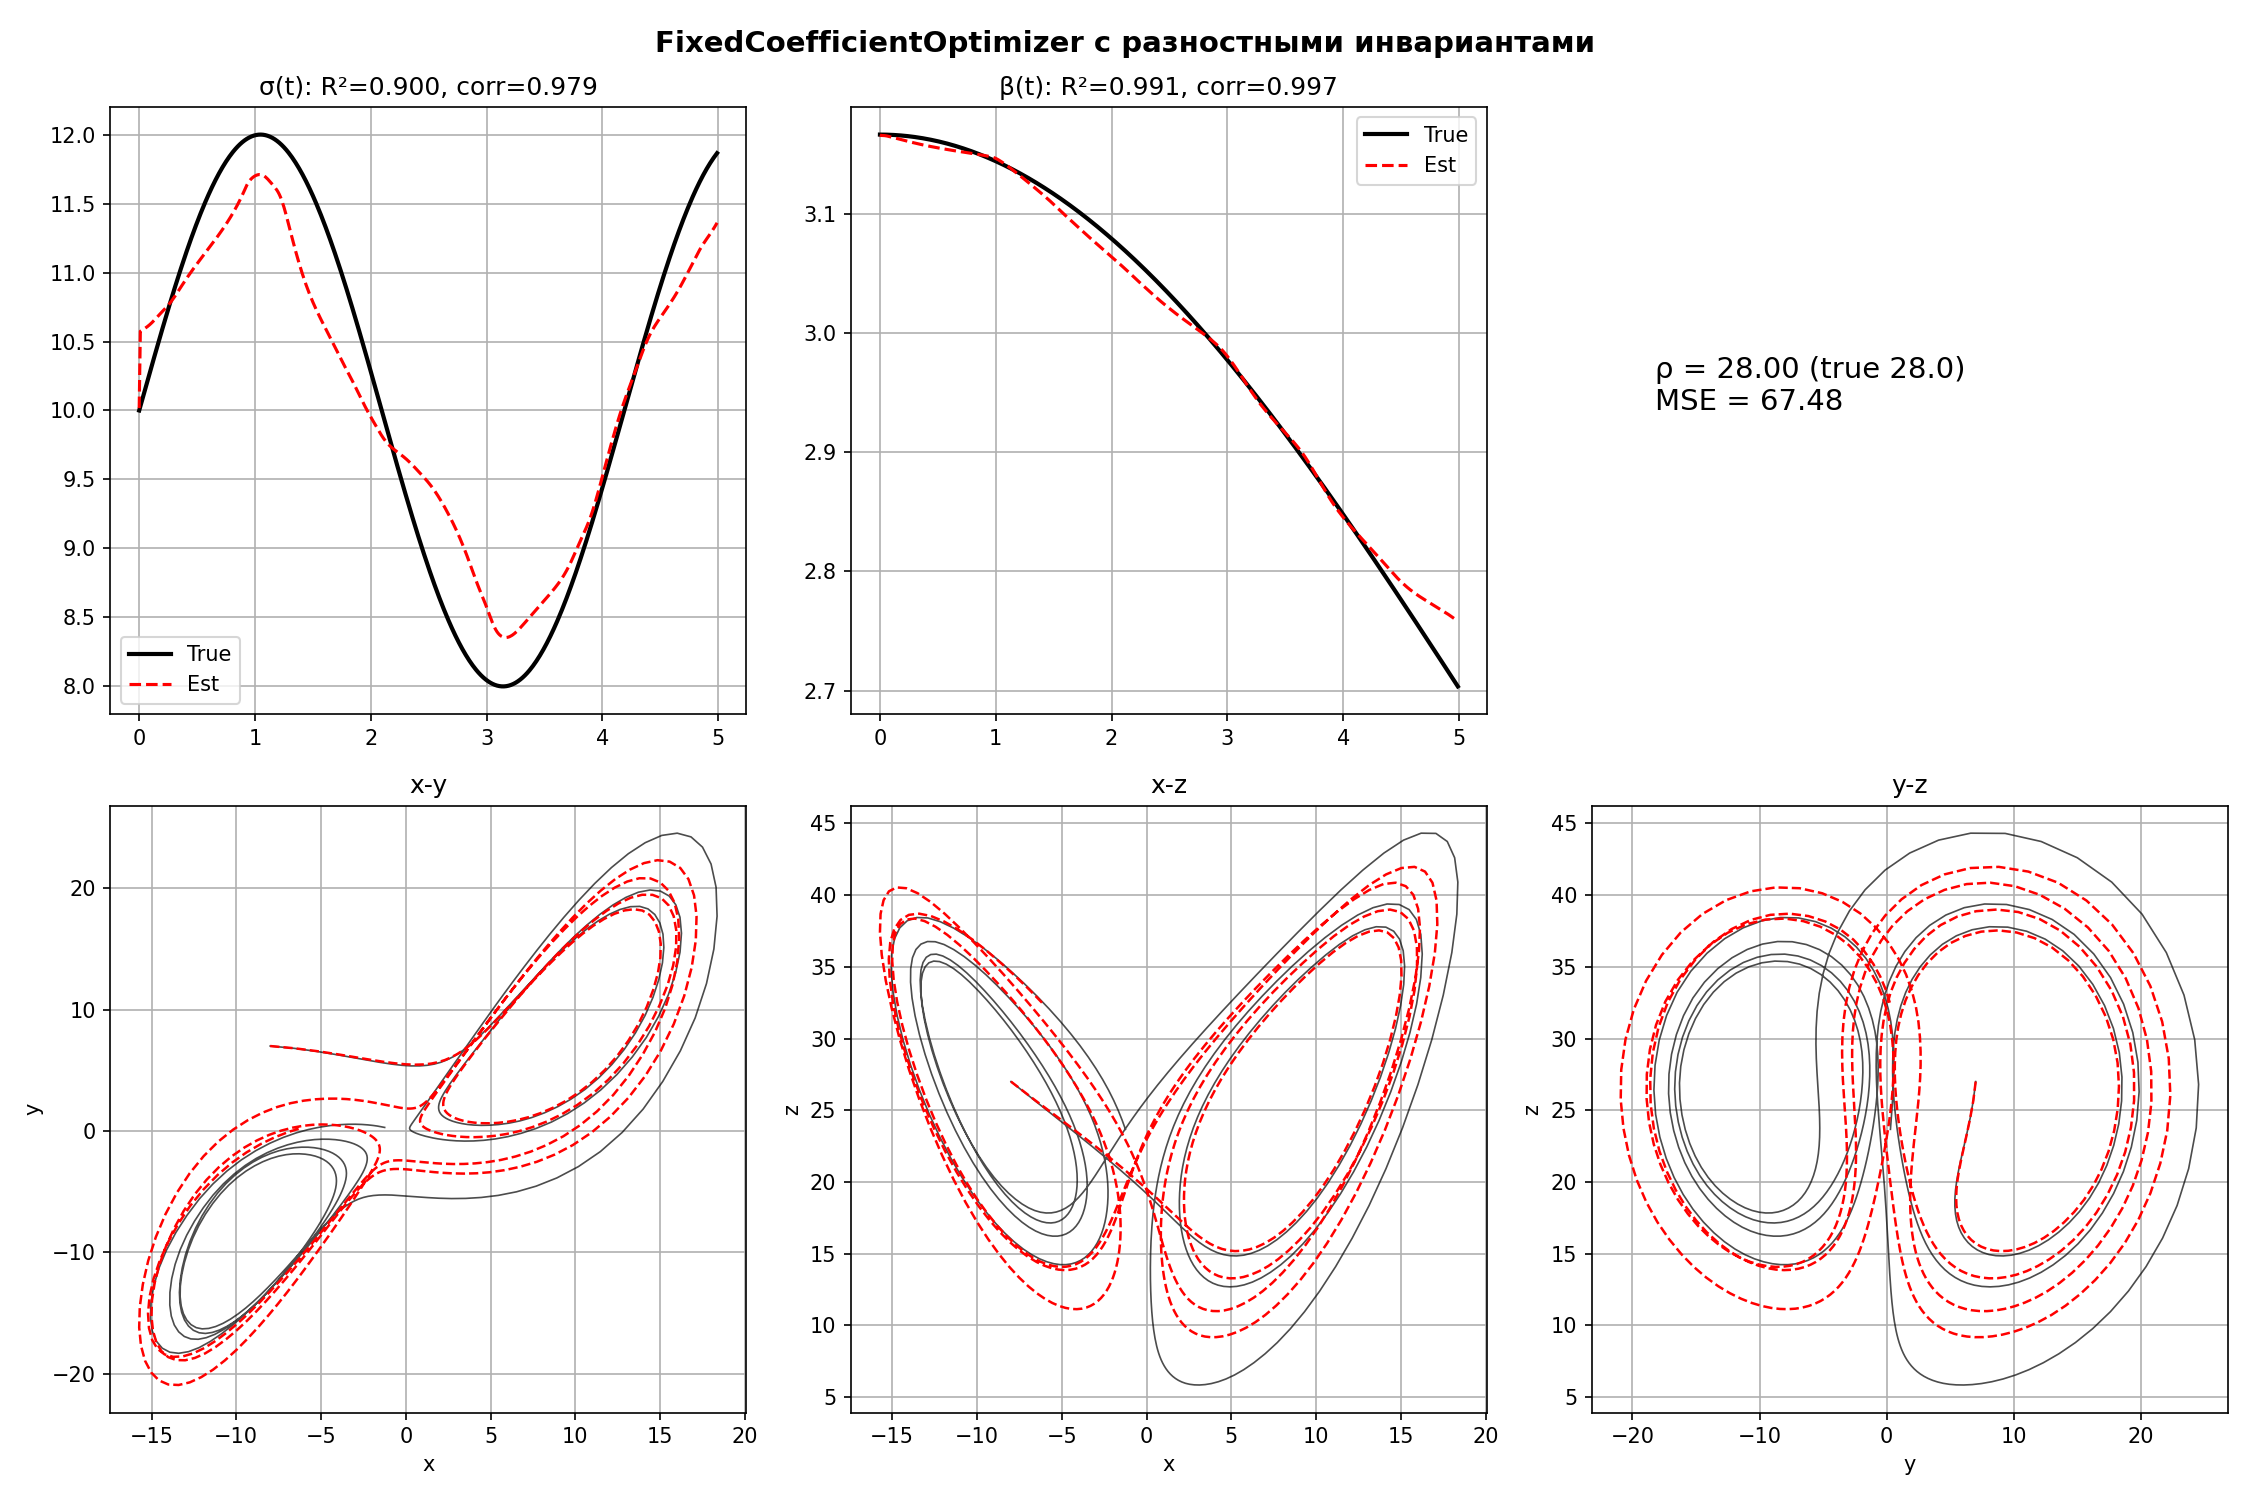
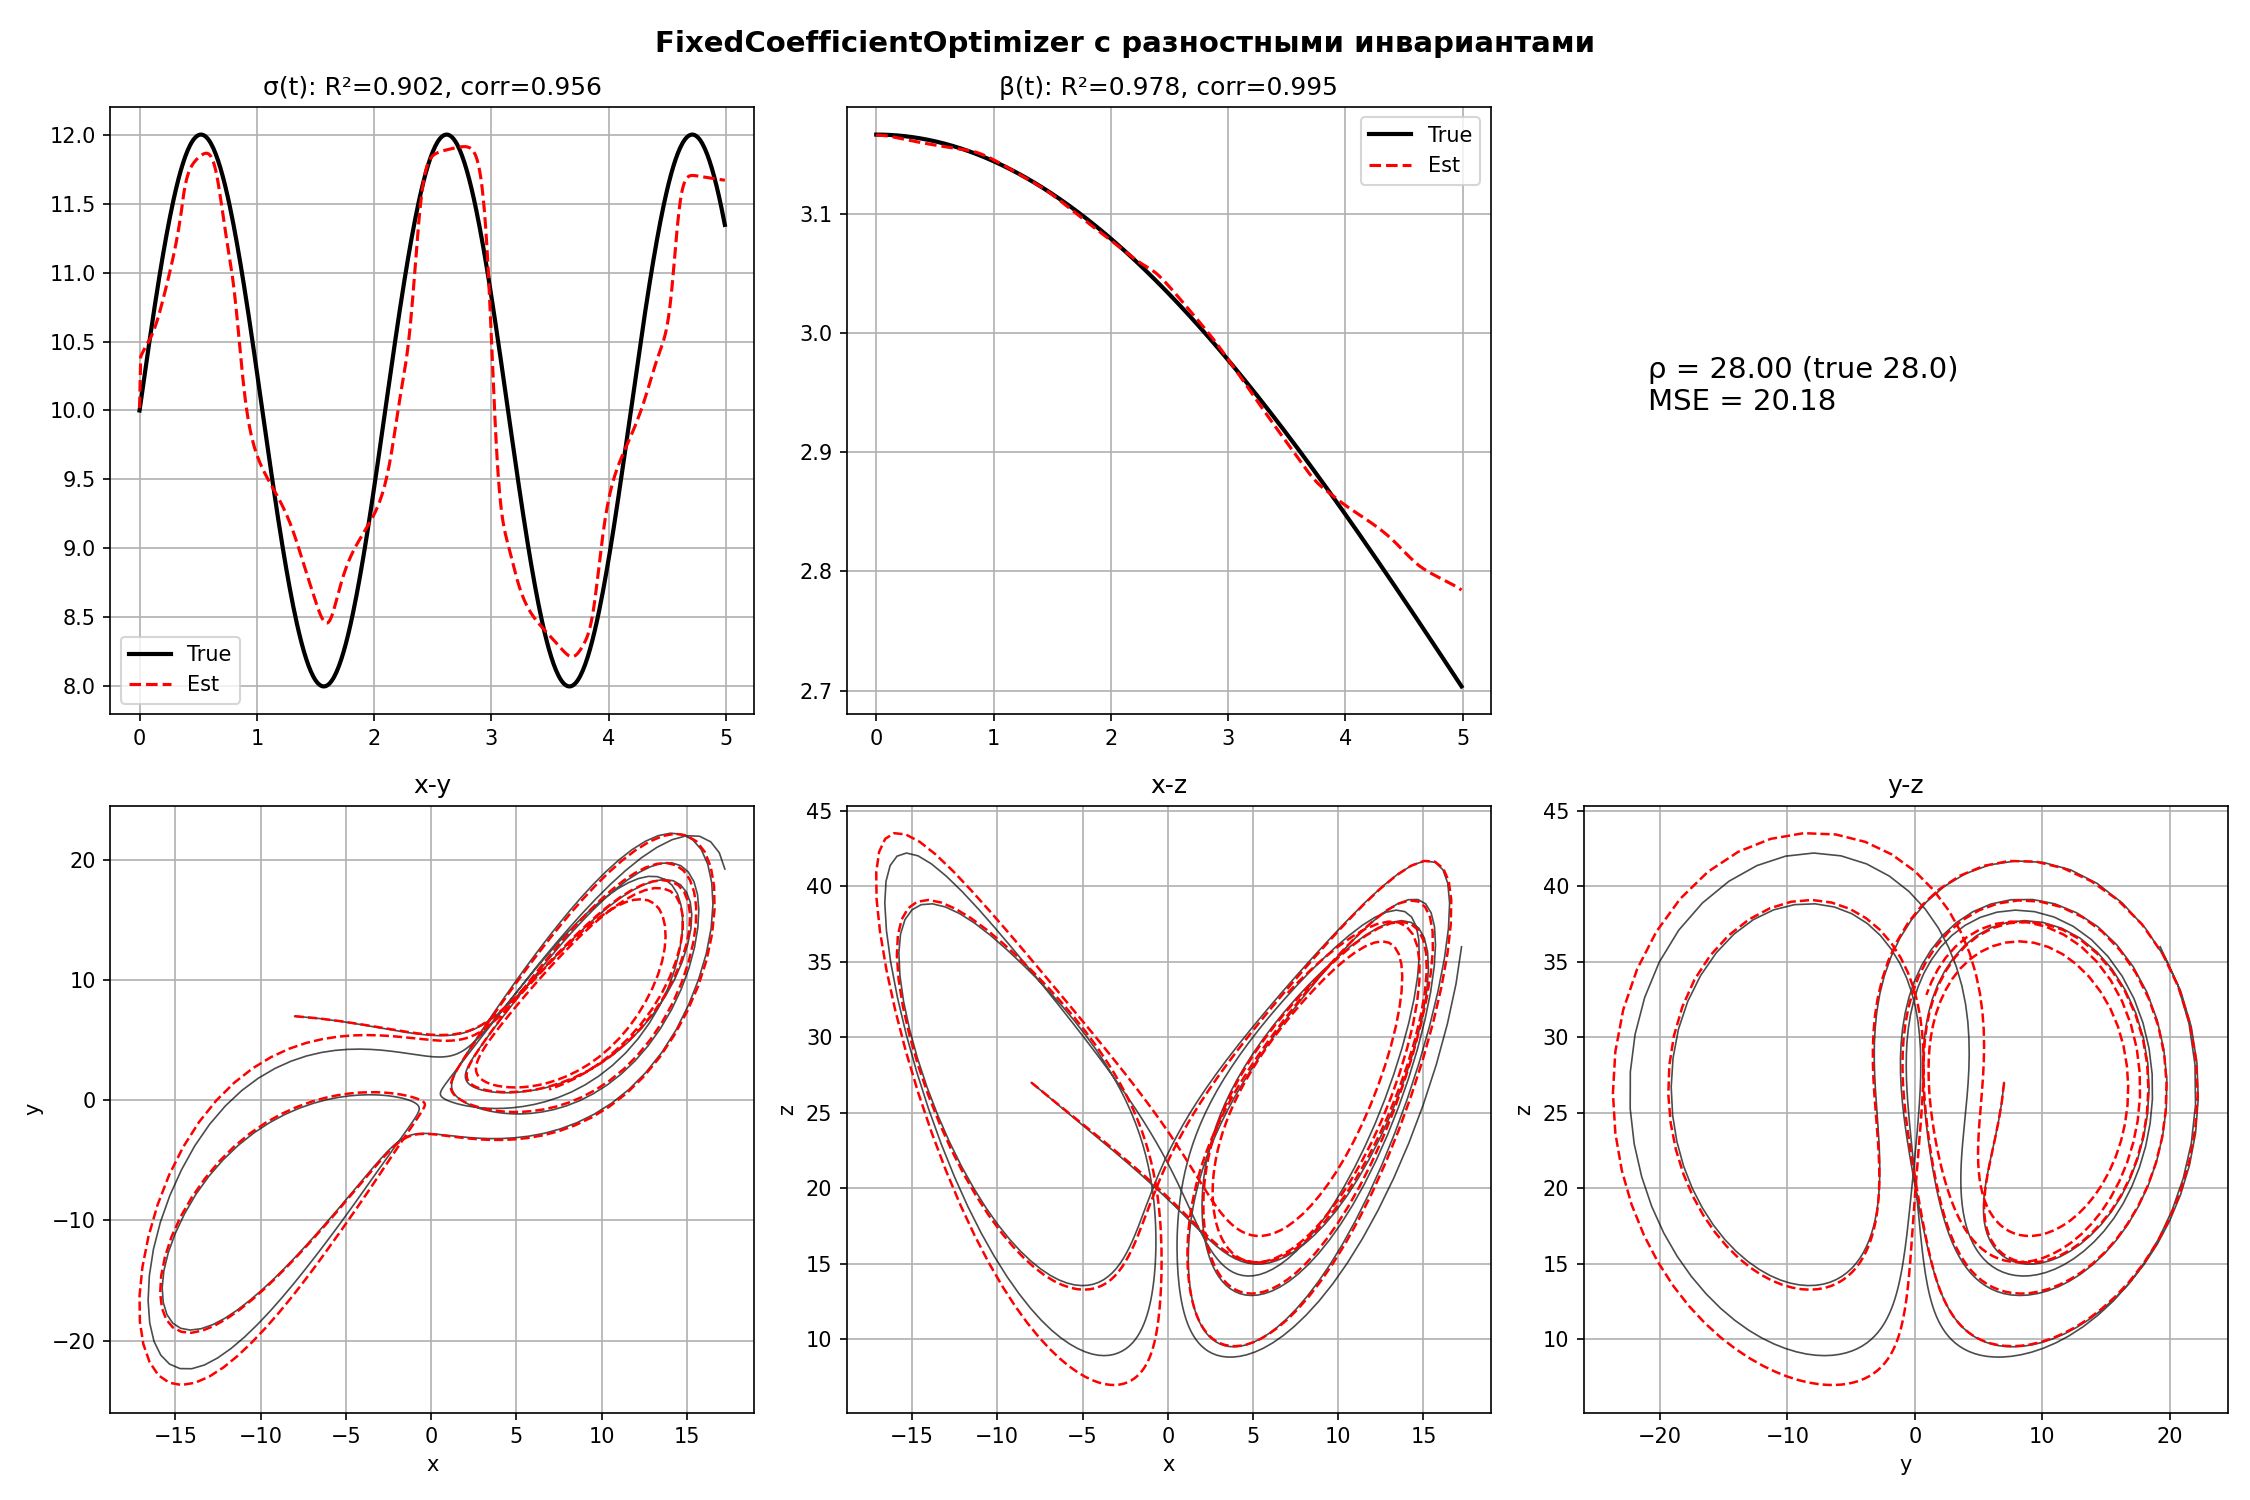
updt

diff --git a/examples/time_var_exa.py b/examples/time_var_exa.py
@@ -14,14 +14,11 @@ from pysindy.optimizers.fixed_base import FixedCoefficientOptimizer
 from pysindy.SINDY_timevar.regressors.time_regressor import LassoTimeRegression
 from pysindy.optimizers import STLSQ
 
-# ============================================================
-# ДАННЫЕ
-# ============================================================
-dt = 0.01
+dt = 0.005
 t = np.arange(0, 5.0, dt)
 
-sigma_true = lambda t: 10 + 2 * np.sin(1.5 * t)
-beta_true  = lambda t: 8/3 + 0.5 * np.cos(0.3 * t)
+sigma_true = lambda t: 10 + 2 * np.sin(3 * t)
+beta_true  = lambda t: 1 + 1/(1+np.exp(t))
 
 def lorenz(t, z):
     x, y, zz = z
@@ -32,30 +29,31 @@ def lorenz(t, z):
 sol = solve_ivp(lorenz, [0, 5.0], [-8, 7, 27], t_eval=t)
 x_clean = sol.y.T
 
-# Сглаживание и дифференцирование
+np.random.seed(42)
+noise_level = 0.0
+x_noisy = x_clean + noise_level * np.std(x_clean, axis=0) * np.random.randn(*x_clean.shape)
+
 t_spline = np.arange(0, 5.0, dt)
 x_smooth = np.zeros_like(x_clean)
 x_dot_smooth = np.zeros_like(x_clean)
 for j in range(3):
-    spl = UnivariateSpline(t_spline, x_clean[:, j], s=0)
+    spl = UnivariateSpline(t_spline, x_noisy[:, j], s=5.0 * noise_level * len(t) * np.std(x_noisy[:, j]))
     x_smooth[:, j] = spl(t_spline)
     x_dot_smooth[:, j] = spl.derivative()(t)
 
-# ============================================================
-# БИБЛИОТЕКА С РАЗНОСТНЫМИ ИНВАРИАНТАМИ
-# ============================================================
-# Конструируем признаки вручную:
-# x, y, z, x², y², z², xy, xz, yz, (y-x), (z-y), (x-z), xyz
+print(f"Шум: {noise_level*100:.0f}% от std")
+print(f"SNR: {np.var(x_clean) / np.var(x_noisy - x_clean):.1f}")
+
 x, y, z = x_smooth[:, 0], x_smooth[:, 1], x_smooth[:, 2]
 
 Theta = np.column_stack([
-    x, y, z,                    # 0,1,2: линейные
-    x**2, y**2, z**2,           # 3,4,5: квадраты
-    x*y, x*z, y*z,              # 6,7,8: парные произведения
-    y - x,                      # 9: разность (для σ)
-    z - y,                      # 10: разность
-    x - z,                      # 11: разность
-    x*y*z                       # 12: тройное произведение
+    x, y, z,                 
+    x**2, y**2, z**2,        
+    x*y, x*z, y*z,              
+    y - x,                   
+    z - y,                    
+    x - z,                     
+    x*y*z                      
 ])
 
 n_features = Theta.shape[1]
@@ -64,62 +62,46 @@ names = ['x', 'y', 'z', 'x²', 'y²', 'z²', 'xy', 'xz', 'yz',
 print(f"Библиотека: {names}")
 print(f"Форма Theta: {Theta.shape}")
 
-# ============================================================
-# МАСКИ (ИСПОЛЬЗУЕМ РАЗНОСТНЫЕ ПРИЗНАКИ)
-# ============================================================
 kernel = lambda u: 0.75 * (1 - u**2) * (np.abs(u) <= 1)
 
 fixed_coefs = np.zeros((3, n_features), dtype=bool)
 fixed_values = np.zeros((3, n_features))
 time_varying_coefs = np.zeros((3, n_features), dtype=bool)
+time_varying_coefs[0, 9] = True 
+for j in range(n_features):
+    if j not in [9, 3, 10]:  
+        fixed_coefs[0, j] = True
+        fixed_values[0, j] = 0.0
 
-# Уравнение 0: dx/dt = σ(t)*(y-x)
-# σ(t) — TV, признак 9 (y-x)
-time_varying_coefs[0, 9] = True
-
-# Уравнение 1: dy/dt = 28*x - y - x*z
-fixed_coefs[1, 0] = True; fixed_values[1, 0] = 28.0   # x
 fixed_coefs[1, 1] = True; fixed_values[1, 1] = -1.0   # y
 fixed_coefs[1, 7] = True; fixed_values[1, 7] = -1.0   # xz
+for j in range(n_features):
+    if j not in [0, 1, 7, 3, 5]:
+        fixed_coefs[1, j] = True
+        fixed_values[1, j] = 0.0
 
-# Уравнение 2: dz/dt = 1.0*xy - β(t)*z
-fixed_coefs[2, 6] = True; fixed_values[2, 6] = 1.0    # xy
-time_varying_coefs[2, 2] = True                        # z — TV (β)
+time_varying_coefs[2, 2] = True
+fixed_coefs[2, 6] = True; fixed_values[2, 6] = 1.0 
+for j in range(n_features):
+    if j not in [2, 6, 4, 11]:
+        fixed_coefs[2, j] = True
+        fixed_values[2, j] = 0.0
 
-# Фиксируем ВСЕ остальные нулями
-for eq in range(3):
-    for j in range(n_features):
-        if not time_varying_coefs[eq, j] and not fixed_coefs[eq, j]:
-            fixed_coefs[eq, j] = True
-            fixed_values[eq, j] = 0.0
-
-# ============================================================
-# PRIOR НА НАЧАЛЬНЫЕ ЗНАЧЕНИЯ
-# ============================================================
 init_conds = np.zeros((3, n_features))
-init_conds[0, 9] = sigma_true(0)    # σ(0) для признака y-x
-init_conds[2, 2] = -beta_true(0)    # -β(0) для признака z
+init_conds[0, 9] = sigma_true(0)
+init_conds[2, 2] = -beta_true(0)
 
-# ============================================================
-# ОПЦИИ ICI
-# ============================================================
 ici_options = {
     'use_selector': True,
     'selector_method': 'ICI',
     'use_time_meanICI': True,
     'smooth_coefs': True,
-    'hmin': 0.5,
-    'hmax': [1.1, 2.0, 1.3],
+    'hmin': 0.2,
+    'hmax': [0.5, 2.0, 1.5],
     'thresholdICI': 3.0,
     'bootstrap': 60
 }
 
-# ============================================================
-# СОВМЕСТНАЯ ОЦЕНКА
-# ============================================================
-print("=" * 60)
-print("СОВМЕСТНАЯ ОЦЕНКА σ(t) И β(t)")
-print("=" * 60)
 
 model = FixedCoefficientOptimizer(
     base_optimizer=STLSQ(threshold=1e-8, normalize_columns=False),
@@ -127,8 +109,8 @@ model = FixedCoefficientOptimizer(
     fixed_values=fixed_values,
     time_varying_coefs=time_varying_coefs,
     tv_optimizer=LassoTimeRegression(
-        iterations=2000, l1_penalty=0.0, bandwidth=1.3,
-        kernel=kernel, use_prior=True, tau=1000.0,
+        iterations=2000, l1_penalty=0.01, bandwidth=1.3,
+        kernel=kernel, use_prior=True, tau=700.0,
         fit_intercept=False, prior_indices=[0]
     ),
     no_normalization_for_fixeds=True,
@@ -138,21 +120,11 @@ model = FixedCoefficientOptimizer(
 )
 model.fit(Theta, x_dot_smooth, t=t)
 
-# ============================================================
-# ИЗВЛЕЧЕНИЕ РЕЗУЛЬТАТОВ
-# ============================================================
 tv_coefs = [model.tv_coefs_[k] for k in range(3)]
+sigma_est = tv_coefs[0][:, 0]
+beta_raw = tv_coefs[2][:, 0]
+beta_est = -beta_raw
 
-# σ(t) из признака 9 (y-x) в уравнении 0
-sigma_est = tv_coefs[0][:, 0]  # единственный TV-признак в уравнении 0
-
-# β(t) из признака 2 (z) в уравнении 2
-beta_raw = tv_coefs[2][:, 0]   # это -β(t)
-beta_est = -beta_raw            # +β(t)
-
-# ============================================================
-# МЕТРИКИ
-# ============================================================
 r2_sigma = r2_score(sigma_true(t), sigma_est)
 r2_beta  = r2_score(beta_true(t), beta_est)
 corr_sigma = np.corrcoef(sigma_true(t), sigma_est)[0, 1]
@@ -162,16 +134,14 @@ print("\n" + "=" * 60)
 print("РЕЗУЛЬТАТЫ")
 print("=" * 60)
 print(f"σ(t): R² = {r2_sigma:.4f}, corr = {corr_sigma:.4f}, mean = {np.mean(sigma_est):.2f} (true ≈ 10.8)")
-print(f"β(t): R² = {r2_beta:.4f}, corr = {corr_beta:.4f}, mean = {np.mean(beta_est):.2f} (true ≈ 3.0)")
+print(f"β(t): R² = {r2_beta:.4f}, corr = {corr_beta:.4f}, mean = {np.mean(beta_est):.2f} (true ≈ {np.mean(beta_true(t)):.2f})")
 
-# Проверка фиксированных коэффициентов
-print(f"\nФиксированные коэффициенты:")
-print(f"  Ур.1: x={model.coef_[1,0]:.1f}, y={model.coef_[1,1]:.1f}, xz={model.coef_[1,7]:.1f}")
-print(f"  Ур.2: xy={model.coef_[2,6]:.1f}")
+print("\nОценённые константные коэффициенты:")
+print(f"  Ур.0: x²={model.coef_[0,3]:.4f}, z-y={model.coef_[0,10]:.4f} (должны быть 0)")
+print(f"  Ур.1: ρ={model.coef_[1,0]:.4f} (должно быть 28), y={model.coef_[1,1]:.4f}, xz={model.coef_[1,7]:.4f}")
+print(f"        x²={model.coef_[1,3]:.4f}, z²={model.coef_[1,5]:.4f} (должны быть 0)")
+print(f"  Ур.2: xy={model.coef_[2,6]:.4f} (должно быть 1), y²={model.coef_[2,4]:.4f}, x-z={model.coef_[2,11]:.4f} (должны быть 0)")
 
-# ============================================================
-# РЕКОНСТРУКЦИЯ АТТРАКТОРА
-# ============================================================
 rho_est = model.coef_[1, 0]
 
 def lorenz_reconstructed(t_val, z, t_arr, s_arr, b_arr, rho):
@@ -189,51 +159,42 @@ sol_rec = solve_ivp(
 x_rec = sol_rec.y.T
 mse = np.mean((x_clean - x_rec) ** 2)
 print(f"\nMSE реконструкции: {mse:.4f}")
-print(f"ρ оценённый: {rho_est:.2f}")
+print(f"ρ оценённый: {rho_est:.4f} (истина 28.0)")
 
-# ============================================================
-# ГРАФИКИ
-# ============================================================
 fig, axes = plt.subplots(2, 3, figsize=(15, 10))
-fig.suptitle('FixedCoefficientOptimizer с разностными инвариантами', fontsize=14, fontweight='bold')
+fig.suptitle(f'FixedCoefficientOptimizer (ρ оценён, частичная фиксация)', fontsize=14, fontweight='bold')
 
-# σ(t)
 axes[0, 0].plot(t, sigma_true(t), 'k-', lw=2, label='True')
 axes[0, 0].plot(t, sigma_est, 'r--', lw=1.5, label='Est')
 axes[0, 0].set_title(f'σ(t): R²={r2_sigma:.3f}, corr={corr_sigma:.3f}')
 axes[0, 0].legend(); axes[0, 0].grid(True)
 
-# β(t)
 axes[0, 1].plot(t, beta_true(t), 'k-', lw=2, label='True')
 axes[0, 1].plot(t, beta_est, 'r--', lw=1.5, label='Est')
 axes[0, 1].set_title(f'β(t): R²={r2_beta:.3f}, corr={corr_beta:.3f}')
 axes[0, 1].legend(); axes[0, 1].grid(True)
 
-# Сводка
 axes[0, 2].axis('off')
 summary = f"ρ = {rho_est:.2f} (true 28.0)\nMSE = {mse:.2f}"
-axes[0, 2].text(0.1, 0.5, summary, fontsize=14, transform=axes[0, 2].transAxes)
+axes[0, 2].text(0.1, 0.5, summary, fontsize=12, transform=axes[0, 2].transAxes)
 
-# x-y
 axes[1, 0].plot(x_clean[:, 0], x_clean[:, 1], 'k-', lw=0.8, alpha=0.7)
 axes[1, 0].plot(x_rec[:, 0], x_rec[:, 1], 'r--', lw=1.2)
 axes[1, 0].set_xlabel('x'); axes[1, 0].set_ylabel('y')
 axes[1, 0].grid(True); axes[1, 0].set_title('x-y')
 
-# x-z
 axes[1, 1].plot(x_clean[:, 0], x_clean[:, 2], 'k-', lw=0.8, alpha=0.7)
 axes[1, 1].plot(x_rec[:, 0], x_rec[:, 2], 'r--', lw=1.2)
 axes[1, 1].set_xlabel('x'); axes[1, 1].set_ylabel('z')
 axes[1, 1].grid(True); axes[1, 1].set_title('x-z')
 
-# y-z
 axes[1, 2].plot(x_clean[:, 1], x_clean[:, 2], 'k-', lw=0.8, alpha=0.7)
 axes[1, 2].plot(x_rec[:, 1], x_rec[:, 2], 'r--', lw=1.2)
 axes[1, 2].set_xlabel('y'); axes[1, 2].set_ylabel('z')
 axes[1, 2].grid(True); axes[1, 2].set_title('y-z')
 
 plt.tight_layout()
-plt.savefig('lorenz_invariants.png', dpi=150)
+plt.savefig('lorenz_partial_fixed.png', dpi=150)
 plt.show()
 
 print("\nГОТОВО.")
